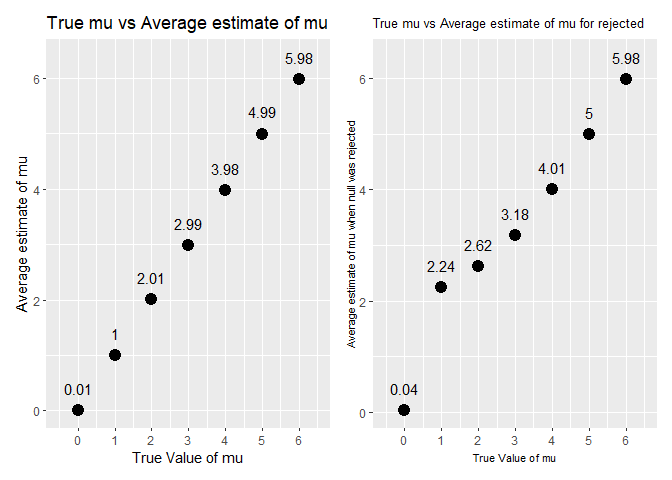
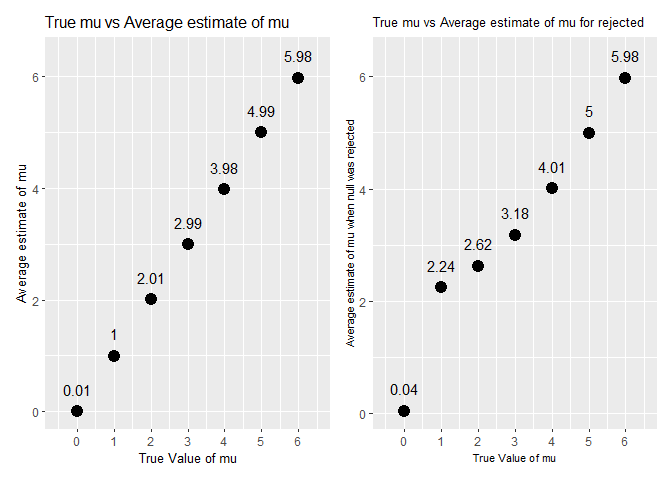
Fixed error on graph for problem 3

diff --git a/p8105_hw5_as6183.md b/p8105_hw5_as6183.md
@@ -313,32 +313,11 @@ plot_1 = sim_results_diff_mus%>%
     position = position_nudge(y = 0.4)
     )+
   xlab("True Value of mu")+
-  scale_x_continuous(breaks=seq(0,6),limits = c(-0.5,6.5))
-```
-
-    ## `summarise()` ungrouping output (override with `.groups` argument)
-
-``` r
+  scale_x_continuous(breaks=seq(0,6),limits = c(-0.5,6.5))+
   theme(title = element_text(size=10)) #plotting average of all mu estimates for each tru mu value
 ```
 
-    ## List of 1
-    ##  $ title:List of 11
-    ##   ..$ family       : NULL
-    ##   ..$ face         : NULL
-    ##   ..$ colour       : NULL
-    ##   ..$ size         : num 10
-    ##   ..$ hjust        : NULL
-    ##   ..$ vjust        : NULL
-    ##   ..$ angle        : NULL
-    ##   ..$ lineheight   : NULL
-    ##   ..$ margin       : NULL
-    ##   ..$ debug        : NULL
-    ##   ..$ inherit.blank: logi FALSE
-    ##   ..- attr(*, "class")= chr [1:2] "element_text" "element"
-    ##  - attr(*, "class")= chr [1:2] "theme" "gg"
-    ##  - attr(*, "complete")= logi FALSE
-    ##  - attr(*, "validate")= logi TRUE
+    ## `summarise()` ungrouping output (override with `.groups` argument)
 
 ``` r
 plot_2 = sim_results_diff_mus%>%
